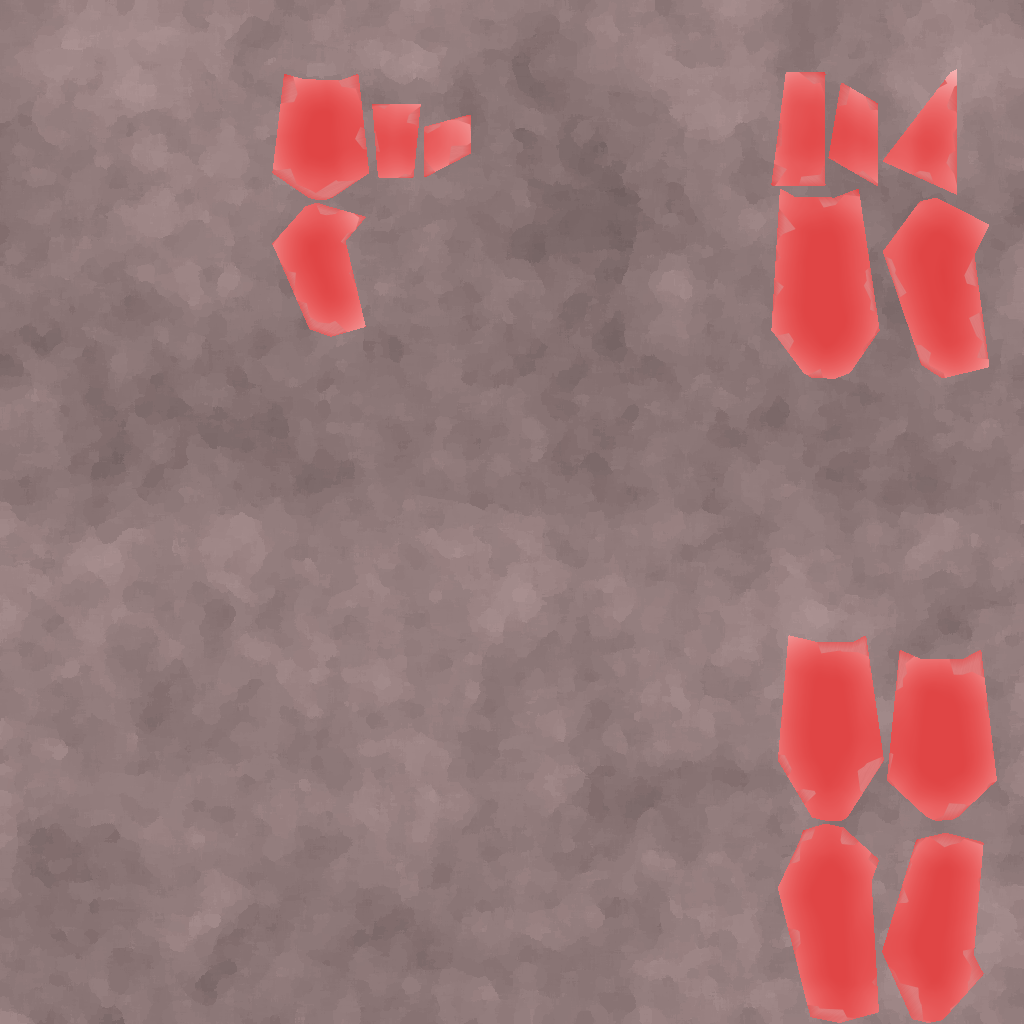
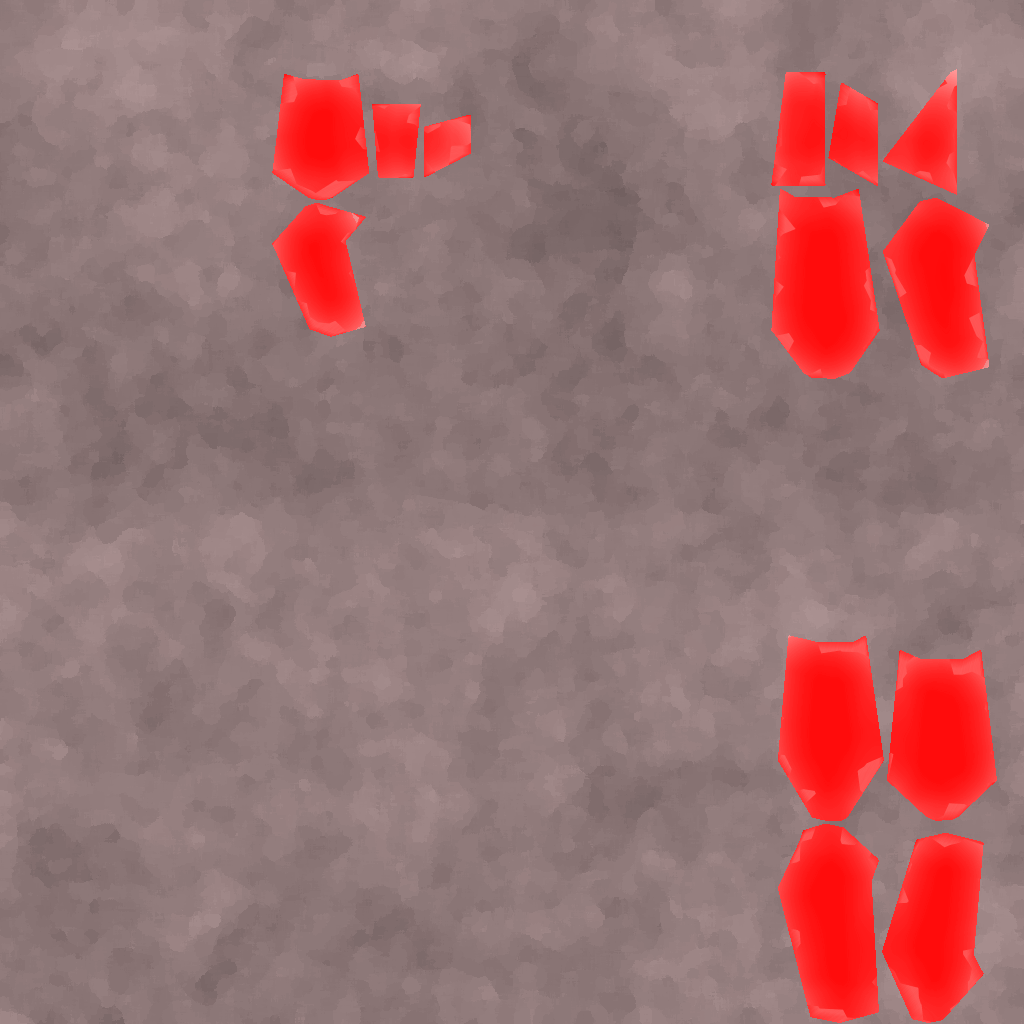
Fixed some entities spawning in air, brighter glow in red gem. Some basic hud ideas (red).

Changed region(s): [[0.75, 0.625, 0.9688, 1.0], [0.75, 0.0625, 0.9688, 0.375], [0.25, 0.0625, 0.4688, 0.3438]]

diff --git a/src/kosmos/chunks/Chunk.java b/src/kosmos/chunks/Chunk.java
@@ -189,15 +189,13 @@ public class Chunk extends Entity {
 		float height = getWorldHeight(worldPos.x, worldPos.y);
 
 		if (height >= 0.0f) {
-			Vector3f tile = new Vector3f(worldPos.x, height, worldPos.y);
-			Entity entity = chunk.biome.getBiome().generateEntity(chunk, tile);
+			tiles.add(new Vector3f(positionX, height, positionZ));
+
+			Entity entity = chunk.biome.getBiome().generateEntity(chunk, new Vector3f(worldPos.x, height, worldPos.y));
 
 			if (entity != null) {
 				new ComponentChild(entity, chunk);
 			}
-
-			tile.set(positionX, height, positionZ);
-			tiles.add(tile);
 		}
 	}
 
@@ -211,7 +209,7 @@ public class Chunk extends Entity {
 	 */
 	public static float getWorldHeight(float positionX, float positionZ) {
 		// Calculates the final height for the world position using perlin.
-		float height = (float) Math.sqrt(2.0) * (int) (KosmosWorld.getNoise().noise2(positionX / 25.0f, positionZ / 25.0f) * 10.0f);
+		float height = (float) Math.sqrt(2.0) * (int) (KosmosWorld.getNoise().noise2(positionX / 30.0f, positionZ / 30.0f) * 12.0f);
 
 		// Ignore height that would be water/nothing.
 		if (height < 0.0f) {

diff --git a/src/kosmos/chunks/biomes/BiomeStone.java b/src/kosmos/chunks/biomes/BiomeStone.java
@@ -47,7 +47,7 @@ public class BiomeStone implements IBiome {
 						new Vector3f(
 								tilePosition.x,
 								0.625f + tilePosition.y * 0.5f,
-								chunk.getPosition().z + (float) (tilePosition.y * 0.5)
+								tilePosition.z
 						),
 						new Vector3f(0.0f, rotation, 0.0f)
 				);
@@ -56,7 +56,7 @@ public class BiomeStone implements IBiome {
 						new Vector3f(
 								tilePosition.x,
 								-0.3f + tilePosition.y * 0.5f,
-								chunk.getPosition().z + (float) (tilePosition.y * 0.5)
+								tilePosition.z
 						),
 						new Vector3f(0.0f, rotation, 0.0f)
 				);
@@ -65,7 +65,7 @@ public class BiomeStone implements IBiome {
 						new Vector3f(
 								tilePosition.x,
 								0.425f + tilePosition.y * 0.5f,
-								chunk.getPosition().z + (float) (tilePosition.y * 0.5)
+								tilePosition.z
 						),
 						new Vector3f(0.0f, rotation, 0.0f)
 				);
